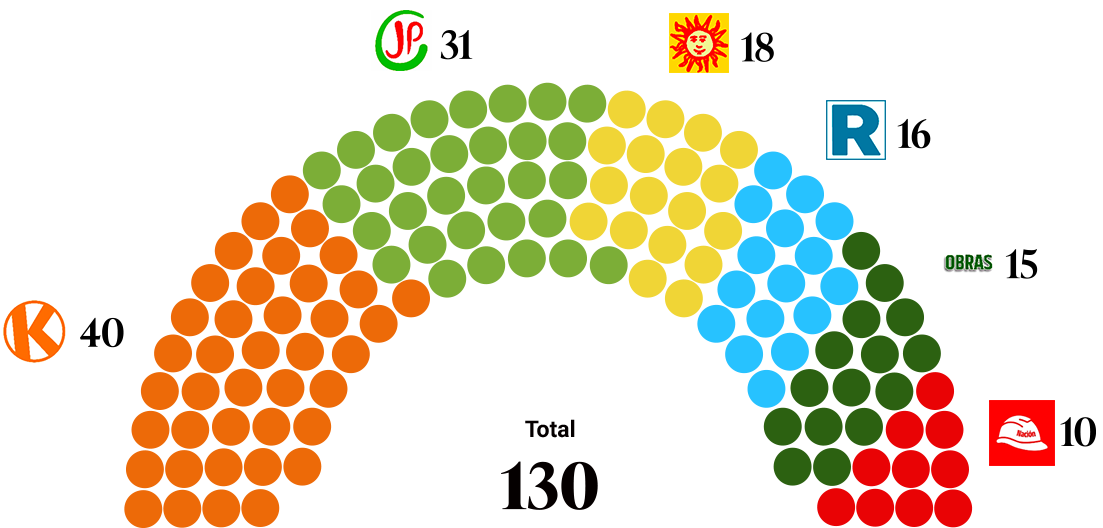
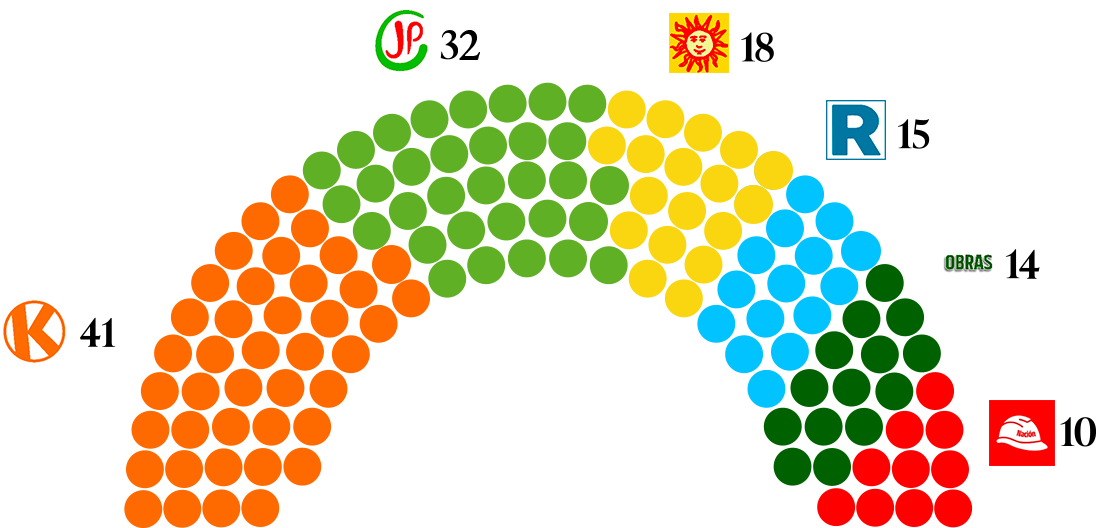
graficos update

diff --git a/index.html b/index.html
@@ -347,7 +347,7 @@
     <!-- Intro: título + filtros (scroll normal, antes del parallax) -->
     <div id="px-intro">
         <h2 class="px-intro-title">El perfil del Parlamento 2026</h2>
-        <p>
+        <p style="margin-bottom: 30px;">
             Edad, experiencia política, profesiones y otros hallazgos sobre los diputados y senadores que integrarán el nuevo Congreso bicameral.
         </p>
         <div class="px-intro-tabs">
@@ -363,9 +363,9 @@
         <div class="px-bg" id="px-bg-1">
             <!--<div class="px-hem-wrap" id="px-hem-1"></div>-->
                 <img class="px-bg-img"
-                    src="./img/hemiciclo-parallax-diputados-1.png"
-                    data-src-dip="./img/hemiciclo-parallax-diputados-1.png"
-                    data-src-sen="./img/hemiciclo-parallax-senadores-1.png"
+                    src="./img/hemiciclo-parallax-diputados-1.jpg"
+                    data-src-dip="./img/hemiciclo-parallax-diputados-1.jpg"
+                    data-src-sen="./img/hemiciclo-parallax-senadores-1.jpg"
                     alt="" width="100%">
         </div>
 
@@ -373,9 +373,9 @@
         <div class="px-bg" id="px-bg-2">
             <!--<div class="px-hem-wrap" id="px-hem-2"></div>-->
             <img class="px-bg-img px-bg-img--bg"
-                src="./img/hemiciclo-parallax-diputados-2.png"
-                data-src-dip="./img/hemiciclo-parallax-diputados-2.png"
-                data-src-sen="./img/hemiciclo-parallax-senadores-2.png"
+                src="./img/hemiciclo-parallax-diputados-2.jpg"
+                data-src-dip="./img/hemiciclo-parallax-diputados-2.jpg"
+                data-src-sen="./img/hemiciclo-parallax-senadores-2.jpg"
                 alt="" width="100%">          
         </div>
 
@@ -383,9 +383,9 @@
         <div class="px-bg" id="px-bg-3">
             <!--<div class="px-hem-wrap" id="px-hem-3"></div>-->
             <img class="px-bg-img px-bg-img--bg"
-                src="./img/hemiciclo-parallax-diputados-3.png"
-                data-src-dip="./img/hemiciclo-parallax-diputados-3.png"
-                data-src-sen="./img/hemiciclo-parallax-senadores-3.png"
+                src="./img/hemiciclo-parallax-diputados-3.jpg"
+                data-src-dip="./img/hemiciclo-parallax-diputados-3.jpg"
+                data-src-sen="./img/hemiciclo-parallax-senadores-3.jpg"
                 alt="" width="100%">                   
         </div>
 
@@ -393,9 +393,9 @@
         <div class="px-bg" id="px-bg-4">
             <!--<div class="px-hem-wrap" id="px-hem-4"></div>-->
             <img class="px-bg-img px-bg-img--bg"
-                src="./img/hemiciclo-parallax-diputados-4.png"
-                data-src-dip="./img/hemiciclo-parallax-diputados-4.png"
-                data-src-sen="./img/hemiciclo-parallax-senadores-4.png"
+                src="./img/hemiciclo-parallax-diputados-4.jpg"
+                data-src-dip="./img/hemiciclo-parallax-diputados-4.jpg"
+                data-src-sen="./img/hemiciclo-parallax-senadores-4.jpg"
                 alt="" width="100%">                        
         </div>
 
@@ -415,10 +415,10 @@
       <div class="px-scene" id="pxs-1">
         <div class="px-card-wrap">
           <div class="px-card">
-            <div class="px-tag">Dato 01</div>
-            <div class="px-number" id="px-stat-total">—</div>
-            <div class="px-unit">candidatos registrados</div>
-            <p class="px-desc">Postulantes al cargo de diputado registrados ante el JNE para las elecciones generales 2026.</p>
+            <!--<div class="px-tag">Dato 01</div>-->
+            <!--<div class="px-number" id="px-stat-total">—</div>-->
+            <div class="px-unit">Lejos de la paridad</div>
+            <p class="px-desc">De los 130 diputados electos, <span class="cian">54 son mujeres (42%)</span> y <span class="verde">76 hombres (58%)</span>.</p>
           </div>
         </div>
       </div>
@@ -426,10 +426,10 @@
       <div class="px-scene" id="pxs-2">
         <div class="px-card-wrap">
           <div class="px-card">
-            <div class="px-tag">Dato 02</div>
-            <div class="px-number" id="px-stat-delitos">—</div>
-            <div class="px-unit">con sentencias registradas</div>
-            <p class="px-desc">Candidatos que declaran al menos una sentencia o proceso penal en su hoja de vida ante el JNE.</p>
+            <!--<div class="px-tag">Dato 02</div>-->
+            <!--<div class="px-number" id="px-stat-delitos">—</div>-->
+            <div class="px-unit">Generación X al mando</div>
+            <p class="px-desc">Los diputados electos tienen una edad promedio de 49 años. <span class="negro">El menor registra</span> <span class="cian">29 años</span> <span class="negro">y el mayor</span> <span class="verde">77 años</span>.</p>
           </div>
         </div>
       </div>
@@ -437,10 +437,10 @@
       <div class="px-scene" id="pxs-3">
         <div class="px-card-wrap">
           <div class="px-card">
-            <div class="px-tag">Dato 03</div>
-            <div class="px-number" id="px-stat-mujeres">—</div>
-            <div class="px-unit">son mujeres candidatas</div>
-            <p class="px-desc">Porcentaje de candidatas mujeres al cargo de diputada en la lista completa inscrita en el JNE.</p>
+            <!--<div class="px-tag">Dato 03</div>
+            <div class="px-number" id="px-stat-mujeres">—</div>-->
+            <div class="px-unit">Predominan los estudios de posgrado</div>
+            <p class="px-desc">Según sus hojas de vida, <span class="cian">33 diputados</span> electos cuentan con <span class="cian">grado de magíster</span> <span class="verde">y 3 con doctorado</span>.</p>
           </div>
         </div>
       </div>
@@ -448,10 +448,10 @@
       <div class="px-scene" id="pxs-4">
         <div class="px-card-wrap">
           <div class="px-card">
-            <div class="px-tag">Dato 04</div>
-            <div class="px-number" id="px-stat-univ">—</div>
-            <div class="px-unit">tienen formación universitaria</div>
-            <p class="px-desc">Candidatos que declaran educación universitaria completa o incompleta en su hoja de vida.</p>
+            <!--<div class="px-tag">Dato 04</div>
+            <div class="px-number" id="px-stat-univ">—</div>-->
+            <div class="px-unit">Antecedentes judiciales presentes.</div>
+            <p class="px-desc"> <span class="cian">8 diputados electos declaran sentencias</span> penales y <span class="verde">9 sentencias no penales</span> en sus hojas de vida.</p>
           </div>
         </div>
       </div>

diff --git a/js/main.js b/js/main.js
@@ -539,6 +539,45 @@ function initMapa() {
 // ── PARALLAX STORIES ──────────────────────────
 let pxFiltroActual = 'diputado';
 
+const PX_CARD_CONTENT = {
+  diputado: [
+    {
+      unit: 'Lejos de la paridad',
+      desc: 'De los 130 diputados electos, <span class="cian">54 son mujeres (42%)</span> y <span class="verde">76 hombres (58%)</span>.'
+    },
+    {
+      unit: 'Generación X al mando',
+      desc: 'Los diputados electos tienen una edad promedio de 49 años. <span class="negro">El menor registra</span> <span class="cian">29 años</span> <span class="negro">y el mayor</span> <span class="verde">77 años</span>.'
+    },
+    {
+      unit: 'Predominan los estudios de posgrado',
+      desc: 'Según sus hojas de vida, <span class="cian">33 diputados</span> electos cuentan con <span class="cian">grado de magíster</span> <span class="verde">y 3 con doctorado</span>.'
+    },
+    {
+      unit: 'Antecedentes judiciales presentes.',
+      desc: '<span class="cian">8 diputados electos declaran sentencias</span> penales y <span class="verde">9 sentencias no penales</span> en sus hojas de vida.'
+    }
+  ],
+  senador: [
+    {
+      unit: 'Sin paridad',
+      desc: 'De los 60 senadores electos, <span class="cian">16 son mujeres (27%)</span> y <span class="verde">44 hombres (73%)</span>.'
+    },
+    {
+      unit: 'Baby Boomers al mando',
+      desc: 'La edad promedio de los senadores electos es de 61 años. El menor registra <span class="cian">39 años</span> y el mayor <span class="verde">79 años</span>.'
+    },
+    {
+      unit: 'Posgrado presente',
+      desc: 'Según sus hojas de vida, <span class="cian">21 senadores</span> electos cuentan con <span class="cian">grado de magíster</span> <span class="verde">y 5 con doctorado</span>.'
+    },
+    {
+      unit: 'Sentencias declaradas',
+      desc: '<span class="cian">4 senadores electos</span>  declaran sentencias penales y <span class="verde">6 sentencias no penales</span> en sus hojas de vida.'
+    }
+  ]
+};
+
 function setPxFiltro(tipo, btn) {
   pxFiltroActual = tipo;
   // Update button styles
@@ -569,6 +608,18 @@ function setPxFiltro(tipo, btn) {
   document.querySelectorAll('.px-bg-img[data-src-dip]').forEach(img => {
     img.src = tipo === 'diputado' ? img.dataset.srcDip : img.dataset.srcSen;
   });
+  // Swap card content for scenes 1-4
+  const cardContent = PX_CARD_CONTENT[tipo];
+  if (cardContent) {
+    ['pxs-1', 'pxs-2', 'pxs-3', 'pxs-4'].forEach((id, i) => {
+      const scene = document.getElementById(id);
+      if (!scene || !cardContent[i]) return;
+      const unit = scene.querySelector('.px-unit');
+      const desc = scene.querySelector('.px-desc');
+      if (unit) unit.textContent = cardContent[i].unit;
+      if (desc) desc.innerHTML = cardContent[i].desc;
+    });
+  }
   // Regenerar hemiciclos SVG con datos del tipo correcto
   const hemKey  = tipo === 'diputado' ? 'dip' : 'sen';
   const total   = tipo === 'diputado' ? 130 : 60;

diff --git a/css/style.css b/css/style.css
@@ -275,10 +275,23 @@ span.indicacion{
     color: #000;
     font: .9rem/1.5 'Roboto', sans-serif; 
     font-weight: 400;
-    text-align: center;
+    text-align: left;
     max-width: 450px;
-    margin: 8px auto 32px;
+    margin: 2px auto 0;
 }
+
+  span.cian{
+    color: #759ba5;
+    font-weight: 800;
+  }
+  span.verde{
+      color: #a8b659;
+      font-weight: 800;
+  }
+  span.negro{
+      color: #000;
+      font-weight: 800;
+  }
 
 .hem-image-block {
     border-bottom: 1px solid #c2c2c2;
@@ -647,9 +660,9 @@ span.indicacion{
   text-align:center;
 }
 .px-intro-title{
-  font-family:'ivy-mode',serif;
+      font-family: "ivypresto-headline", serif;
   font-size:clamp(2rem,5vw,3.2rem);
-  font-weight:700;
+  font-weight:600;
   color:#111;
   margin:0;
   letter-spacing:-.01em;
@@ -832,10 +845,10 @@ span.indicacion{
 }
 .px-number--accent{ color:#e05555; }
 .px-unit{
-  font-family:'DM Sans',sans-serif;
-  font-size:.82rem;font-weight:600;
-  color:#444;text-transform:uppercase;letter-spacing:.08em;
-  margin-bottom:16px;
+  font-family: 'Roboto', sans-serif;  
+  font-size:1rem;
+  font-weight: 800;
+  color:#000;
 }
 .px-card--accent .px-unit{ color:#777; }
 .px-desc{